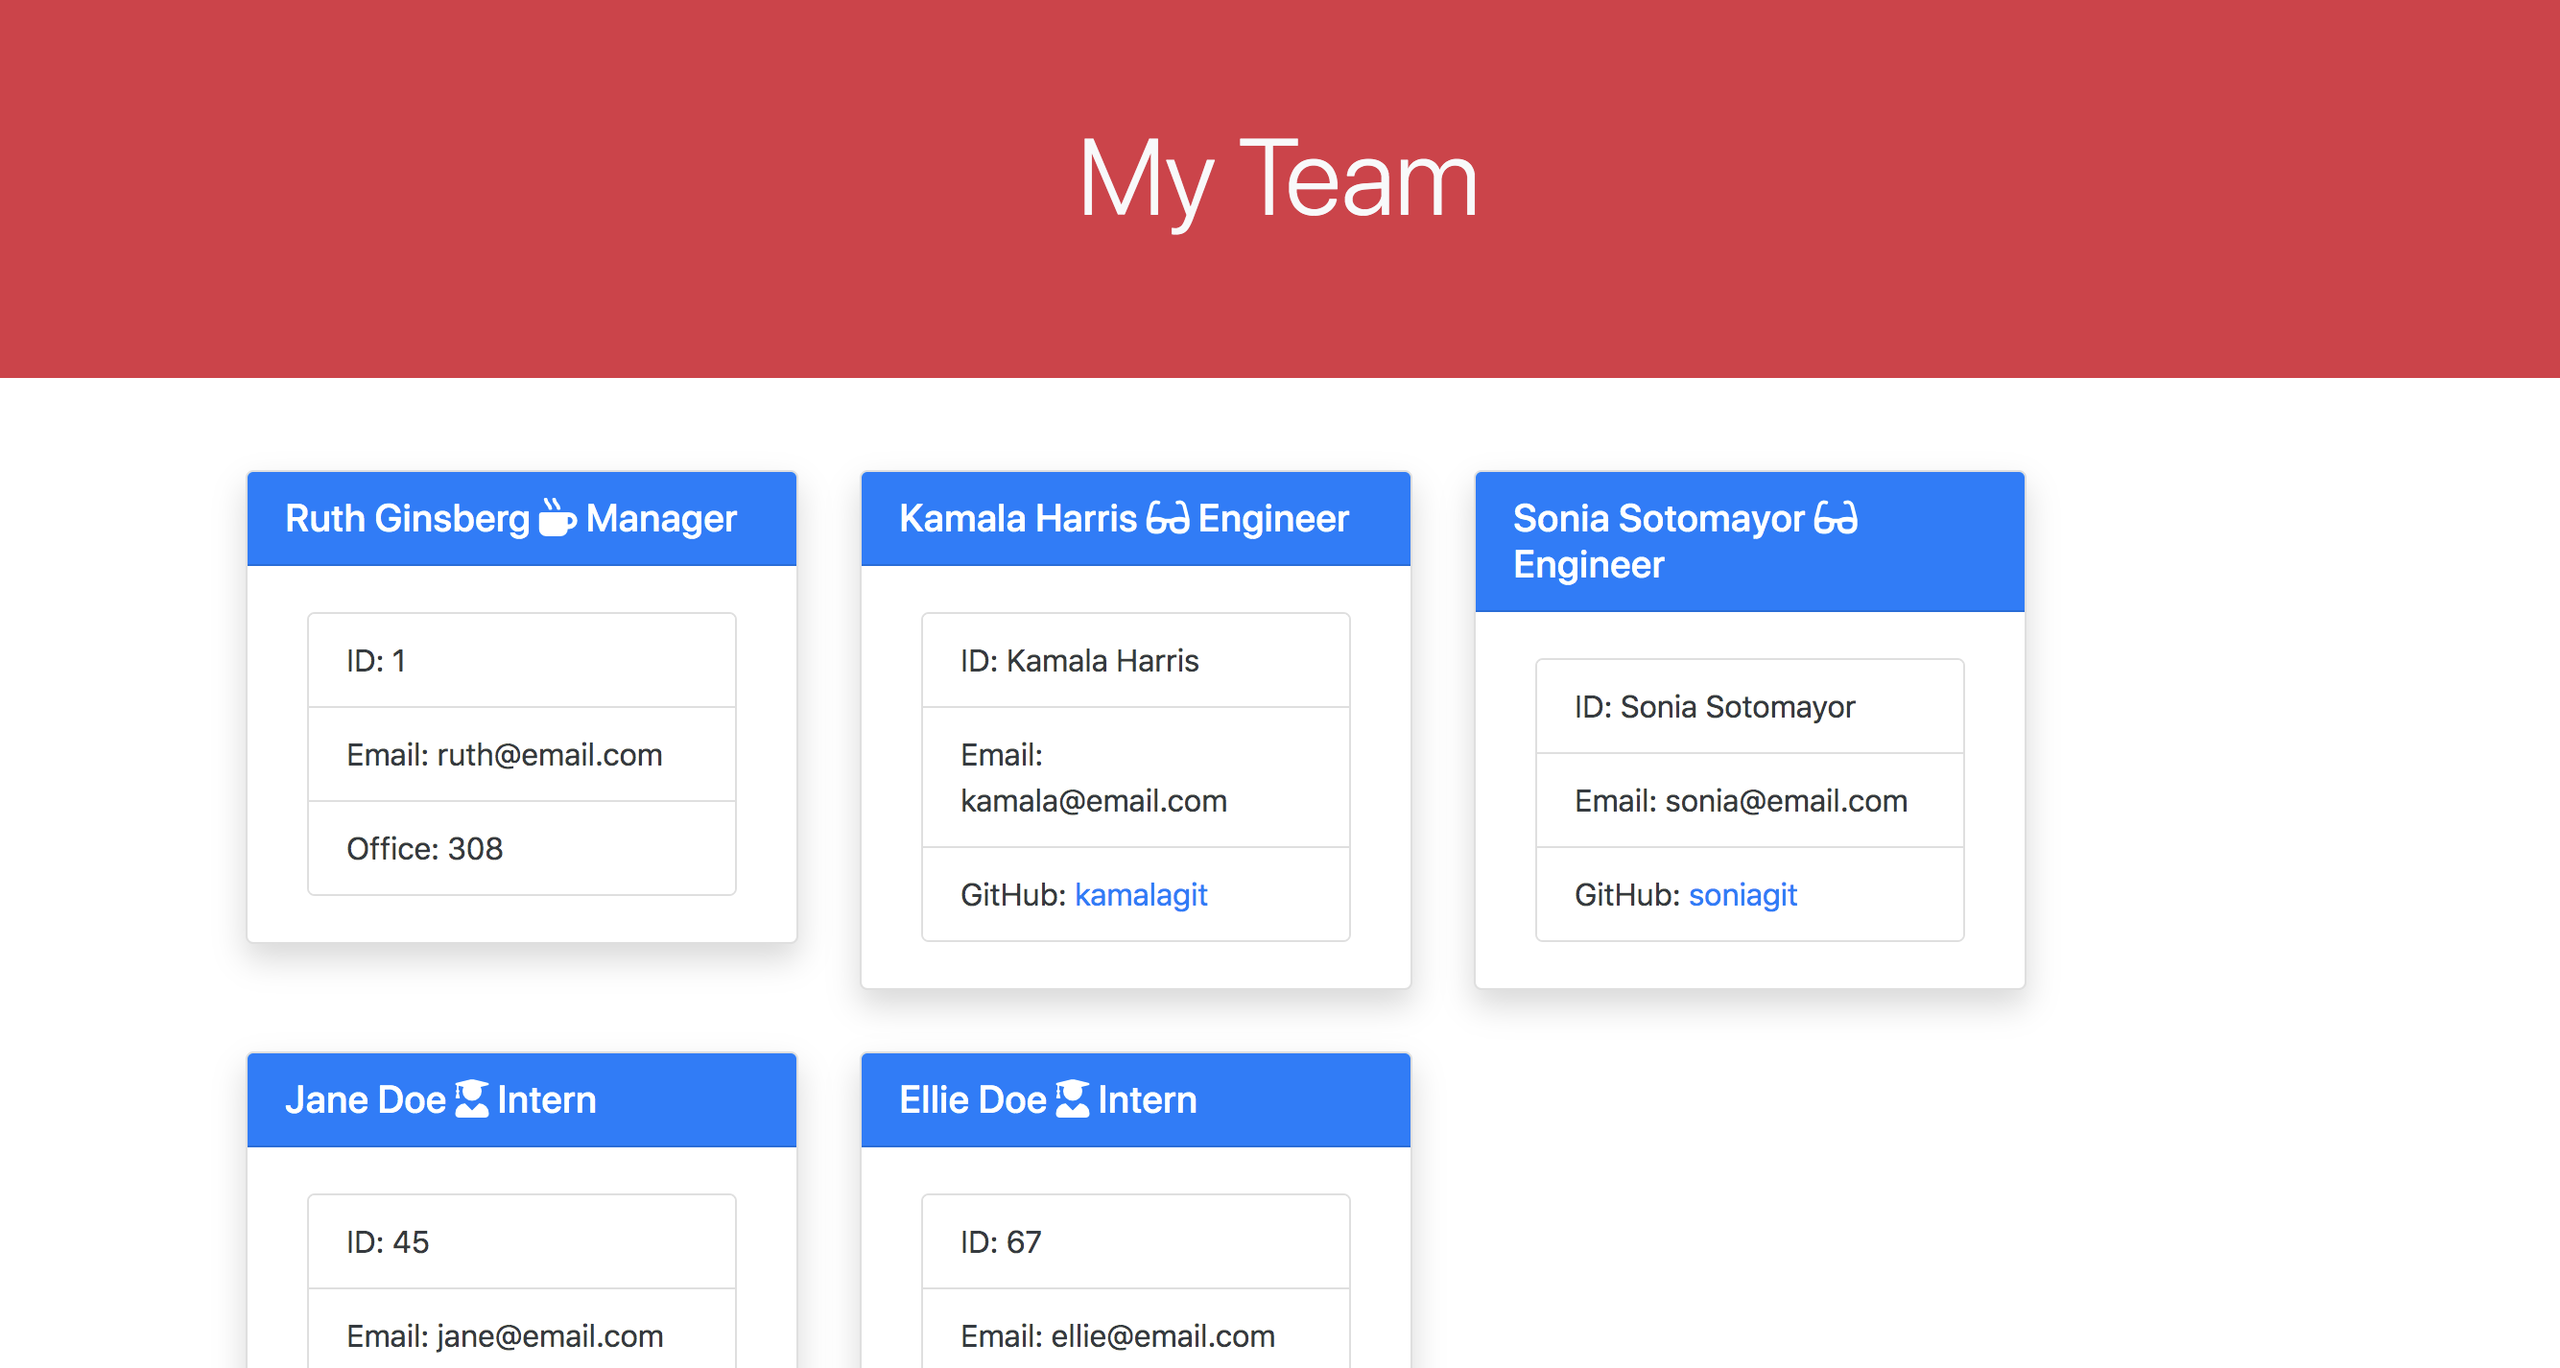
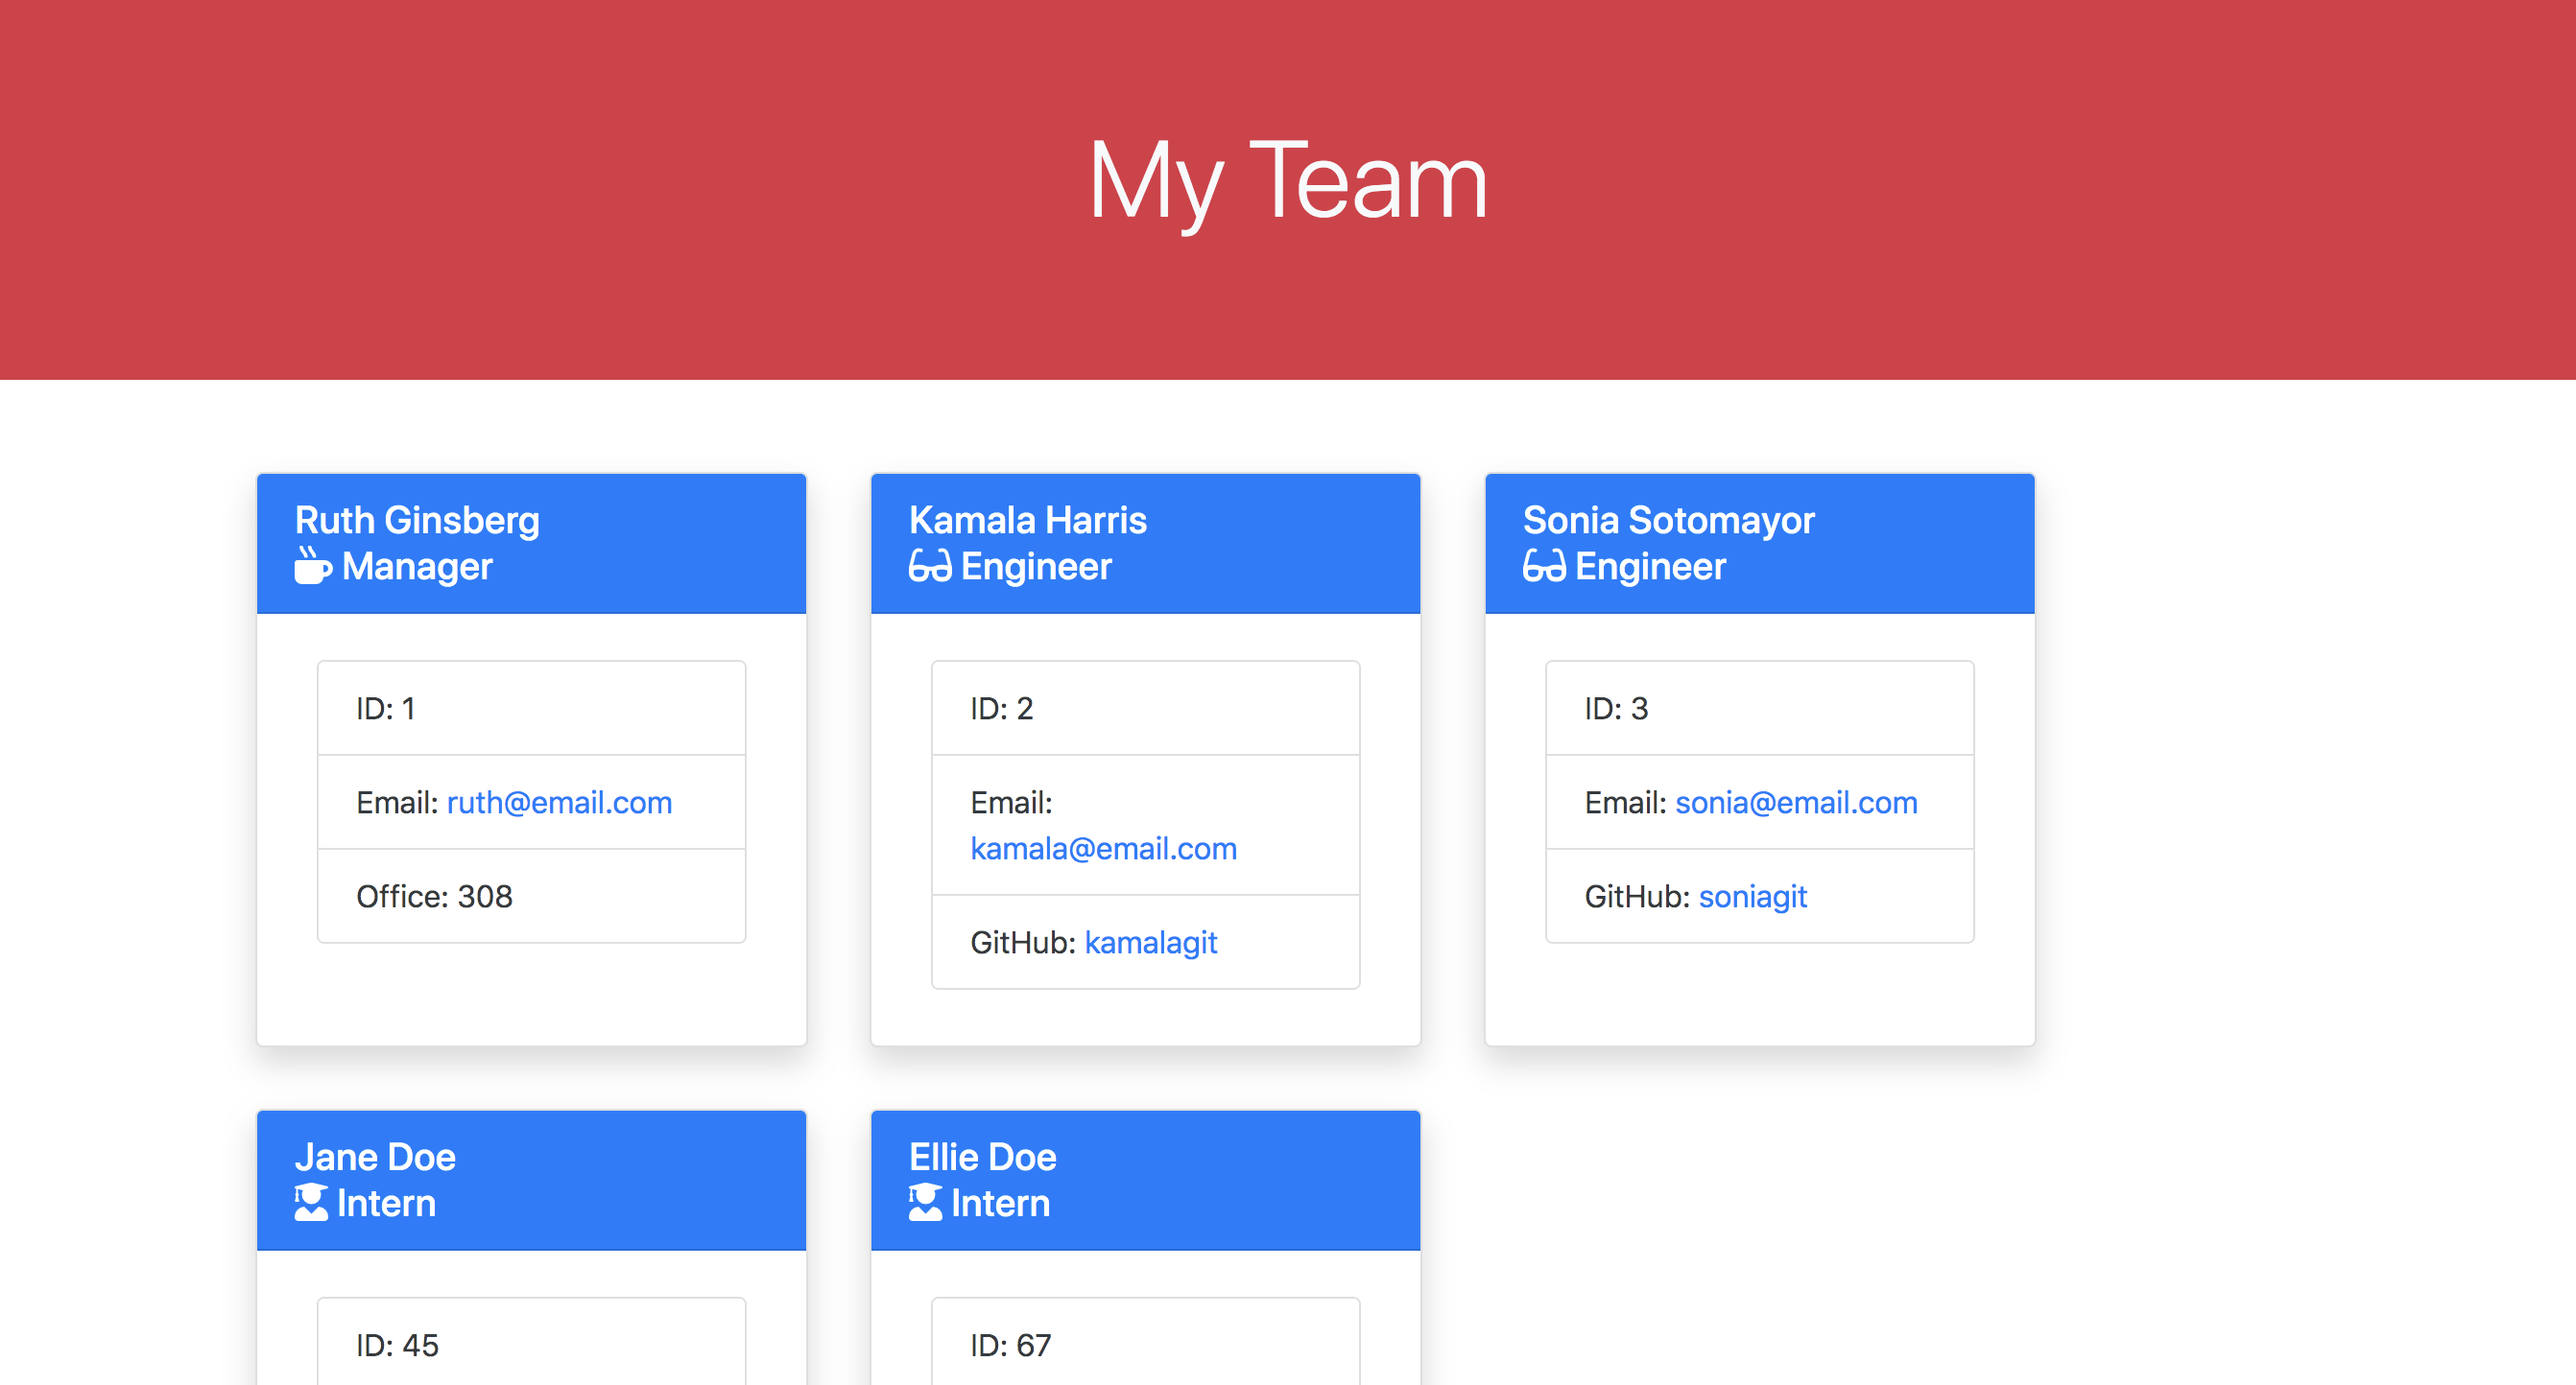
adjusted template literal

diff --git a/dist/myTeam.html b/dist/myTeam.html
@@ -19,79 +19,79 @@
   <div class="container-lg mx-auto">
 
     
-            <div class="card text-white m-3 float-left shadow " style="width: 18rem;">
+            <div class="card text-white m-3 float-left shadow " style="width: 18rem; min-height: 300px">
             <div class="card-header bg-primary h5">Ruth Ginsberg
-
+            <br>
                 <i class="fas fa-mug-hot"></i>            
                 Manager
             </div>
             <div class="card mx-auto my-4" style="width: 14rem;">
                 <ul class="list-group list-group-flush">
                   <li class="list-group-item text-dark">ID: 1</li>
-                  <li class="list-group-item text-dark">Email: ruth@email.com</li>
+                  <li class="list-group-item text-dark">Email: <a href="mailto:ruth@email.com">ruth@email.com</a></li>
                   <li class="list-group-item text-dark">Office: 308</li>
                 </ul>
               </div>
           </div>
     
-            <div class="card text-white m-3 float-left shadow" style="width: 18rem;">
+            <div class="card text-white m-3 float-left shadow" style="width: 18rem; min-height: 300px">
             <div class="card-header bg-primary h5">Kamala Harris
-
+            <br>
                 <i class="fas fa-glasses"></i>
                 Engineer
             </div>
             <div class="card mx-auto my-4" style="width: 14rem;">
                 <ul class="list-group list-group-flush">
-                  <li class="list-group-item text-dark">ID: Kamala Harris</li>
-                  <li class="list-group-item text-dark">Email: kamala@email.com</li>
-                  <li class="list-group-item text-dark">GitHub: <a href = "https://www.github.com/kamalagit">kamalagit</a></li>
+                  <li class="list-group-item text-dark">ID: 2</li>
+                  <li class="list-group-item text-dark">Email: <a href="mailto:kamala@email.com">kamala@email.com</a></li>
+                  <li class="list-group-item text-dark">GitHub: <a href = "https://www.github.com/kamalagit" target="_blank">kamalagit</a></li>
                 </ul>
               </div>
           </div>
     
             
-            <div class="card text-white m-3 float-left shadow" style="width: 18rem;">
+            <div class="card text-white m-3 float-left shadow" style="width: 18rem; min-height: 300px">
             <div class="card-header bg-primary h5">Sonia Sotomayor
-
+            <br>
                 <i class="fas fa-glasses"></i>
                 Engineer
             </div>
             <div class="card mx-auto my-4" style="width: 14rem;">
                 <ul class="list-group list-group-flush">
-                  <li class="list-group-item text-dark">ID: Sonia Sotomayor</li>
-                  <li class="list-group-item text-dark">Email: sonia@email.com</li>
-                  <li class="list-group-item text-dark">GitHub: <a href = "https://www.github.com/soniagit">soniagit</a></li>
+                  <li class="list-group-item text-dark">ID: 3</li>
+                  <li class="list-group-item text-dark">Email: <a href="mailto:sonia@email.com">sonia@email.com</a></li>
+                  <li class="list-group-item text-dark">GitHub: <a href = "https://www.github.com/soniagit" target="_blank">soniagit</a></li>
                 </ul>
               </div>
           </div>
     
             
-            <div class="card text-white m-3 float-left shadow" style="width: 18rem;">
+            <div class="card text-white m-3 float-left shadow" style="width: 18rem; min-height: 300px">
             <div class="card-header bg-primary h5">Jane Doe
-
+            <br>
                 <i class="fas fa-user-graduate"></i>
                 Intern
             </div>
             <div class="card mx-auto my-4" style="width: 14rem;">
                 <ul class="list-group list-group-flush">
                   <li class="list-group-item text-dark">ID: 45</li>
-                  <li class="list-group-item text-dark">Email: jane@email.com</li>
+                  <li class="list-group-item text-dark">Email: <a href="mailto:jane@email.com">jane@email.com</a></li>
                   <li class="list-group-item text-dark">School: KU</li>
                 </ul>
               </div>
           </div>
     
             
-            <div class="card text-white m-3 float-left shadow" style="width: 18rem;">
+            <div class="card text-white m-3 float-left shadow" style="width: 18rem; min-height: 300px">
             <div class="card-header bg-primary h5">Ellie Doe
-
+            <br>
                 <i class="fas fa-user-graduate"></i>
                 Intern
             </div>
             <div class="card mx-auto my-4" style="width: 14rem;">
                 <ul class="list-group list-group-flush">
                   <li class="list-group-item text-dark">ID: 67</li>
-                  <li class="list-group-item text-dark">Email: ellie@email.com</li>
+                  <li class="list-group-item text-dark">Email: <a href="mailto:ellie@email.com">ellie@email.com</a></li>
                   <li class="list-group-item text-dark">School: UMKC</li>
                 </ul>
               </div>

diff --git a/src/generateHtml.js b/src/generateHtml.js
@@ -9,15 +9,16 @@ function generateCards(employees){
       // console.log(data.getRole())
         if (data.getRole() === "Manager"){
             htmlTemps.push( `
-            <div class="card text-white m-3 float-left shadow " style="width: 18rem;">
-            <div class="card-header bg-primary h5">${data.name}\n
+            <div class="card text-white m-3 float-left shadow " style="width: 18rem; min-height: 300px">
+            <div class="card-header bg-primary h5">${data.name}
+            <br>
                 <i class="fas fa-mug-hot"></i>            
                 Manager
             </div>
             <div class="card mx-auto my-4" style="width: 14rem;">
                 <ul class="list-group list-group-flush">
                   <li class="list-group-item text-dark">ID: ${data.id}</li>
-                  <li class="list-group-item text-dark">Email: ${data.email}</li>
+                  <li class="list-group-item text-dark">Email: <a href="mailto:${data.email}">${data.email}</a></li>
                   <li class="list-group-item text-dark">Office: ${data.officeNumber}</li>
                 </ul>
               </div>
@@ -26,16 +27,17 @@ function generateCards(employees){
         }
         else if (data.getRole() === "Engineer"){
             htmlTemps.push( `
-            <div class="card text-white m-3 float-left shadow" style="width: 18rem;">
-            <div class="card-header bg-primary h5">${data.name}\n
+            <div class="card text-white m-3 float-left shadow" style="width: 18rem; min-height: 300px">
+            <div class="card-header bg-primary h5">${data.name}
+            <br>
                 <i class="fas fa-glasses"></i>
                 Engineer
             </div>
             <div class="card mx-auto my-4" style="width: 14rem;">
                 <ul class="list-group list-group-flush">
-                  <li class="list-group-item text-dark">ID: ${data.name}</li>
-                  <li class="list-group-item text-dark">Email: ${data.email}</li>
-                  <li class="list-group-item text-dark">GitHub: <a href = "https://www.github.com/${data.github}">${data.github}</a></li>
+                  <li class="list-group-item text-dark">ID: ${data.id}</li>
+                  <li class="list-group-item text-dark">Email: <a href="mailto:${data.email}">${data.email}</a></li>
+                  <li class="list-group-item text-dark">GitHub: <a href = "https://www.github.com/${data.github}" target="_blank">${data.github}</a></li>
                 </ul>
               </div>
           </div>
@@ -44,15 +46,16 @@ function generateCards(employees){
         }
         else {
             htmlTemps.push( `
-            <div class="card text-white m-3 float-left shadow" style="width: 18rem;">
-            <div class="card-header bg-primary h5">${data.name}\n
+            <div class="card text-white m-3 float-left shadow" style="width: 18rem; min-height: 300px">
+            <div class="card-header bg-primary h5">${data.name}
+            <br>
                 <i class="fas fa-user-graduate"></i>
                 Intern
             </div>
             <div class="card mx-auto my-4" style="width: 14rem;">
                 <ul class="list-group list-group-flush">
                   <li class="list-group-item text-dark">ID: ${data.id}</li>
-                  <li class="list-group-item text-dark">Email: ${data.email}</li>
+                  <li class="list-group-item text-dark">Email: <a href="mailto:${data.email}">${data.email}</a></li>
                   <li class="list-group-item text-dark">School: ${data.school}</li>
                 </ul>
               </div>

diff --git a/src/index.html b/src/index.html
@@ -17,7 +17,7 @@
 
   <div class="container-lg mx-auto">
       <!-- <div class="row"> -->
-
+<div class="card-deck">
     <div class="card text-white m-3 float-left shadow" style="width: 18rem;">
         <div class="card-header bg-primary h5">Name
             <i class="fas fa-glasses"></i>
@@ -62,7 +62,7 @@
 
 
     <!-- generate cards -->
-
+</div>
 </div>
     </div>
 <script src="https://code.jquery.com/jquery-3.5.1.slim.min.js" integrity="sha384-DfXdz2htPH0lsSSs5nCTpuj/zy4C+OGpamoFVy38MVBnE+IbbVYUew+OrCXaRkfj" crossorigin="anonymous"></script>
